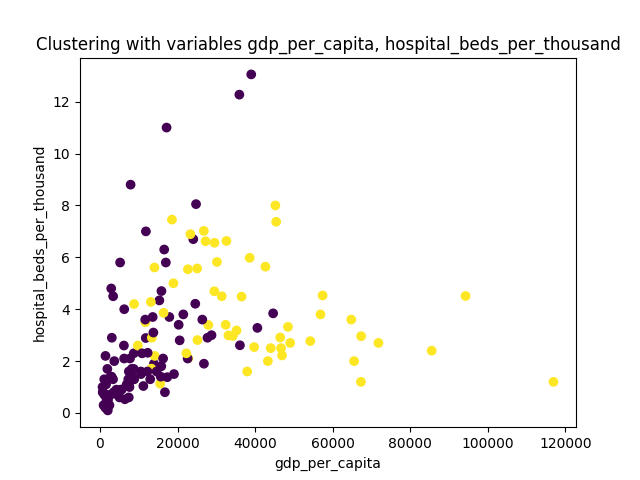
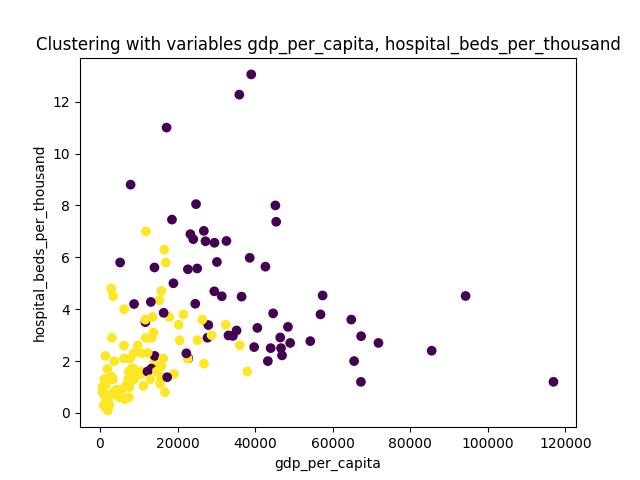
Improvement in Machine Learning

diff --git a/Application/scripts/main.py b/Application/scripts/main.py
@@ -880,21 +880,21 @@ def main():
             while(True):
                 print("----------------------")
                 print("Machine Learning Menu")
-                print("1. Total deaths per million, Total cases per million, GDP per capita, Hospital bed per thousand")
-                print("2. Total deaths per million, Total cases per million, Vaccine importance, Vaccine safety")
-                print("3. Total deaths per million, Total cases per million, Number of physicians per thousand")
+                print("1. Total deaths per million, GDP per capita, Hospital bed per thousand")
+                print("2. Total deaths per million, Vaccine importance")
+                print("3. Total deaths per million, Number of physicians per thousand")
                 print("----------------------")
                 option6=enter_integer("Choose the indicators you want to use when clustering: ")
                 if option6==1:
-                    write_executable('machineLearning', "data.ml_covid_data(['total_deaths_per_million', 'total_cases_per_million', 'gdp_per_capita', 'hospital_beds_per_thousand'])", mode, num_threads_local)
+                    write_executable('machineLearning', "data.ml_covid_data(['total_deaths_per_million', 'gdp_per_capita', 'hospital_beds_per_thousand'])", mode, num_threads_local)
                     execute_spark_submit(mode, num_executors, executor_cores)
                     break
                 elif option6 == 2:
-                    write_executable('machineLearning', "data.ml_vaccines_data(['total_deaths_per_million', 'total_cases_per_million'], ['Vaccine importance, Strongly agree (%)', 'Vaccine safety,Strongly agree (%)'])", mode, num_threads_local)
+                    write_executable('machineLearning', "data.ml_vaccines_data(['total_deaths_per_million'], ['Vaccine importance, Strongly agree (%)'])", mode, num_threads_local)
                     execute_spark_submit(mode, num_executors, executor_cores)
                     break
                 elif option6 == 3:
-                    write_executable('machineLearning', "data.ml_physicians_data(['total_deaths_per_million', 'total_cases_per_million'])", mode, num_threads_local)
+                    write_executable('machineLearning', "data.ml_physicians_data(['total_deaths_per_million'])", mode, num_threads_local)
                     execute_spark_submit(mode, num_executors, executor_cores)
                     break
 

diff --git a/Application/scripts/machineLearning.py b/Application/scripts/machineLearning.py
@@ -134,7 +134,7 @@ class MachineLearning:
         vecAssembler = VectorAssembler(inputCols=features, outputCol="features")
         df = vecAssembler.transform(df).select('id', 'features')
         scaler = StandardScaler(inputCol="features", outputCol="scaledFeatures",
-                        withStd=True, withMean=False)
+                        withStd=True, withMean=True)
         model = scaler.fit(df)
         df = model.transform(df)
 
@@ -167,7 +167,7 @@ class MachineLearning:
         
 
         # Predict with the chosen model
-        kmeans = KMeans().setK(best_k).setSeed(1).setFeaturesCol("features")
+        kmeans = KMeans().setK(best_k).setSeed(1).setFeaturesCol("scaledFeatures")
         model = kmeans.fit(df)
         predictions = model.transform(df)
         rows = predictions.select('id', 'prediction').collect()
